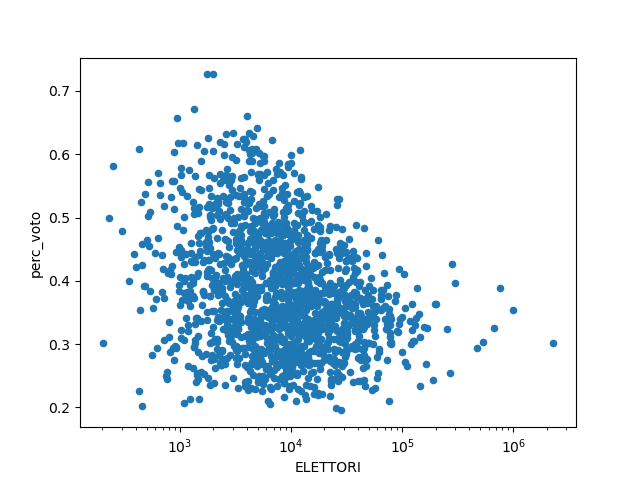
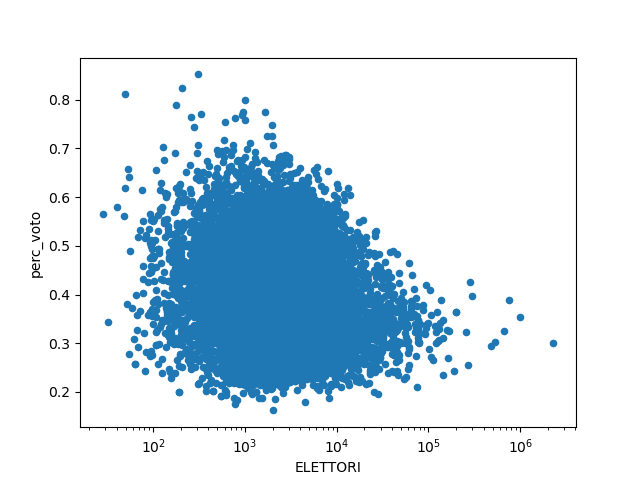
updated tasks

diff --git a/analysis.py b/analysis.py
@@ -9,17 +9,20 @@ from shapely.geometry import Polygon, Point
 # how many votes does the first party in every municipio get?
 with open("data/europee_clean.csv", "r") as f:
     erp = pd.read_csv(f)
+with open("data/istat_clean.csv", "r") as f:
+    cmn = pd.read_csv(f)
 
 
 max_votes_per_comune = erp.groupby(["COMUNE"])["VOTI_LISTA"].transform(max) == erp["VOTI_LISTA"]
 df = erp[max_votes_per_comune].copy()
 df["perc_voto"] = df["VOTI_LISTA"] / df["VOTANTI"]
 print(df.columns)
+
 first_past_post = df[["COMUNE", "perc_voto", "ELETTORI"]].copy()
 print(first_past_post.head)
 
 first_sample = first_past_post.sample(frac=0.2, weights=first_past_post["ELETTORI"]/sum(first_past_post["ELETTORI"]))
-ax = first_sample.plot(x="ELETTORI", y="perc_voto", kind="scatter", logx=True)
+ax = first_past_post.plot(x="ELETTORI", y="perc_voto", kind="scatter", logx=True)
 ax.figure.savefig("plots/first_past_post.png")
 
 # correlation
@@ -27,24 +30,36 @@ corr = first_sample[["ELETTORI", "perc_voto"]].corr(method="pearson")
 print(corr)
 
 
-# best two parties?
-n  = 2
-'''n_past_post = first_past_post
-for _ in range(n-1):
-    more_parties = (df[~n_past_post.isin(df[["COMUNE", "perc_voto", "ELETTORI"]])]).groupby(["COMUNE"])["VOTI_LISTA"].transform(max) \
-    == df[~n_past_post.isin(df[["COMUNE", "perc_voto", "ELETTORI"]])]
+# best n parties?
+m = 10
+for n in range(1, m):
+    # Sort the dataframe by "comune" and "voti" in descending order
+    df_grouped = erp.sort_values(by=['COMUNE', 'VOTI_LISTA'], ascending=[True, False])
+
+    # Select the top 2 parties for each comune
+    df_top2 = df_grouped.groupby(['COMUNE', "PROVINCIA"]).head(n)
+
+    # Sum the votes of the top 2 parties for each comune
+    df_result = df_top2.groupby(['COMUNE', "PROVINCIA"]).agg({'VOTI_LISTA': 'sum', 'VOTANTI': 'first'}).reset_index()
+    df_result["perc_voto"] = df_result["VOTI_LISTA"] / df_result["VOTANTI"]
+    print(df_result)
+
+    df_final = pd.merge(df_result, cmn[["COMUNE", "SHAPE_AREA"]], on='COMUNE', how='left')
     
-    n_past_post = n_past_post.aggregate(more_parties)'''
+    res = df_final[df_final["SHAPE_AREA"] > 1]
+    
+    ax = res.plot(x="VOTANTI", y="perc_voto", kind="scatter", logx=True)
+    ax.figure.savefig(f"plots/top_{n}_partiesV.png")
+    
+    
+    ax = res.plot(x="SHAPE_AREA", y="perc_voto", kind="scatter", logx=True)
+    ax.figure.savefig(f"plots/top_{n}_partiesA")
+    
+    res["DENSITY"] = res["VOTANTI"]/res["SHAPE_AREA"]
+    ax = res.plot(x="DENSITY", y="perc_voto", kind="scatter", logx=True)
+    ax.figure.savefig(f"plots/top_{n}_partiesD")
 
-max_n = lambda x: x[:n]
-n_past_post = df.groupby(["COMUNE"], group_keys=True, sort=True)[["VOTI_LISTA"]].apply(max_n)
-n_past_post = df[n_past_post]
-print(n_past_post.columns)
-
-n_past_post = n_past_post.groupby("COMUNE")["VOTI_LISTA"].transform(sum).drop_duplicates()
-ax = n_past_post.plot(x="ELETTORI", y="perc_voto", kind="scatter", logx=True)
-ax.figure.savefig("plots/top_{n}_parties.png")
-
+# how are the votes distributed in comuni with different area?
 
 ''' 
 take the votes taken by each candidate in each town and 
@@ -57,8 +72,5 @@ a towny candidates takes 95% of the votes in a comune, but 90% of its votes come
 
 ## indetify towny cnadidates
 with open("data/candidates_clean.csv", "r") as f:
-    cndts = pd.read_csv(f)
-
-with open("data/istat_clean.csv", "r") as f:
-    cmn = pd.read_csv(f)
+    cndts = pd.read_csv(f) 
 

diff --git a/README.md b/README.md
@@ -18,6 +18,7 @@ QUANTITATIVE DEF:
 - def 1, for a party: given the total number of preferences for a party, if a candidate has a low proportion of preferences party-wise q% (E.g. q=0.5),
 but on the total of preferences for the same party in a comune is > p% (E.g. p=50)then it is a filler candidate for a party.
 - def 2, in general: a candidate which gets q% (E.g. q=70) of their preferences from comuni in which the same candidate gets p% (E.g. p=70) of the votes, is a filler candidate
+this def 2 is flawed
 )
 
 ## Steps
@@ -27,13 +28,14 @@ but on the total of preferences for the same party in a comune is > p% (E.g. p=5
 [x] examine the dataset and clean it (17/08)
 
 ### division of comuni by population __GIOVANNI__ (19/08)
-[] how the preferences are spread out in a cumune by population 
-[] how the preferences are spread out in a cumune by population
+[X] how the preferences are spread out in a cumune by population 
+[X] how the preferences are spread out in a cumune by population 
+[] group by circoscrizione and highlight party __GIOVANNI__(21/08)
 
 ### find filler candidates
-[][] set percentages for filler candidates classification __ALESSANDRO CON DEF1,  LORENZO CON DEF2__ (19/08)
-[][] consider big, small city effects 
-[][] Does their birthplace have any correlation with origin of votes?
+[] set percentages for filler candidates classification __ALESSANDRO CON DEF1__(21/08)
+[] consider big, small city effects 
+[] Does their birthplace have any correlation with origin of votes? __LORENZO__(21/08)
 
 ### Quantify the effect of filler candidates
 [] scope of the party
@@ -44,7 +46,12 @@ but on the total of preferences for the same party in a comune is > p% (E.g. p=5
 [] Does their birthplace have any correlation with origin of votes?
 [] how candidates get elected in their party in relation with the votes they got 
 (where they voted directly or where they pushed up by their party?) 
-(how are votes distributed in a party?)
+[x] how are votes distributed in a party? __LORENZO__
+[] how actually elected canddates distribute per party __LORENZO__ (21/08 PRIORITA)
+
+### representance, spread and polarization
+[] how representative are the elected candidates
+[] how polarized were the elections
 
 ## Conclusions
 
@@ -54,3 +61,6 @@ but on the total of preferences for the same party in a comune is > p% (E.g. p=5
 - majority of people did not express preferenze
 - for visualization I random sampled from the population weighting on the population of the settlement,
 correlation was kept at the same values roughly + some variation
+
+- there seems to be no correlation between area/population/density and homogeneousness of votes
+perhaps there is too much noise, clustering by parties might make this better
